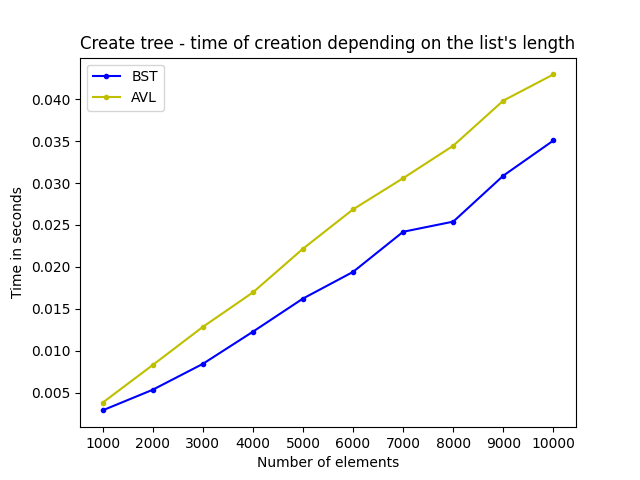
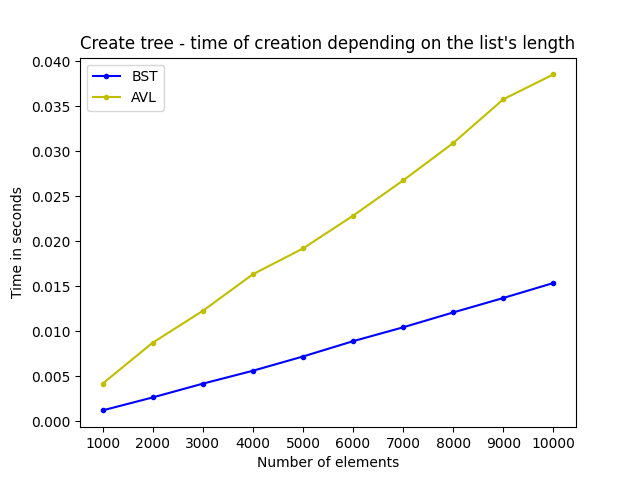
Removed recursion

diff --git a/AISDI-22L-3-Drzewa/avl_tree.py b/AISDI-22L-3-Drzewa/avl_tree.py
@@ -194,17 +194,22 @@ class AVL_Tree_Node:
         # AVL rebalancing done in constructor of the new node
         if self.value is None:
             self.value = value
-        elif self.value == value:
-            return
-        elif value < self.value:
-            if self.left_child:
-                self.left_child.insert(value)
-            else:
-                AVL_Tree_Node(self, False, value)
-        elif self.right_child:
-            self.right_child.insert(value)
         else:
-            AVL_Tree_Node(self, True, value)
+            while value != self.value:
+                if value < self.value:
+                    if self.left_child is None:
+                        AVL_Tree_Node(self, False, value)
+                        break
+                    else:
+                        self = self.left_child
+                elif value > self.value:
+                    if self.right_child is None:
+                        AVL_Tree_Node(self, True, value)
+                        break
+                    else:
+                        self = self.right_child
+                else:
+                    break
 
     def _rotate_left(self, set_factors=True):
         x = self.parent
@@ -317,17 +322,12 @@ class AVL_Tree_Node:
     def search(self, value):
         if self.value is None:
             return None
-        if value == self.value:
-            return self
-        if value < self.value:
-            if self.left_child is None:
-                return None
-            return self.left_child.search(value)
-
-        if value > self.value:
-            if self.right_child is None:
-                return None
-            return self.right_child.search(value)
+        while (self is not None and value != self.value):
+            if value < self.value:
+                self = self.left_child
+            else:
+                self = self.right_child
+        return self
 
     def delete(self):
         if self.right_child is None or self.right_child is None:

diff --git a/AISDI-22L-3-Drzewa/test_avl_tree.py b/AISDI-22L-3-Drzewa/test_avl_tree.py
@@ -169,7 +169,7 @@ def test_basic_avl_tree_right_left_rotation():
 
 
 def test_sorted_list():
-    values = list(range(1000))
+    values = list(range(5))
     tree = AVL_Tree(values)
 
     checker_avl(tree.root, None, None)
